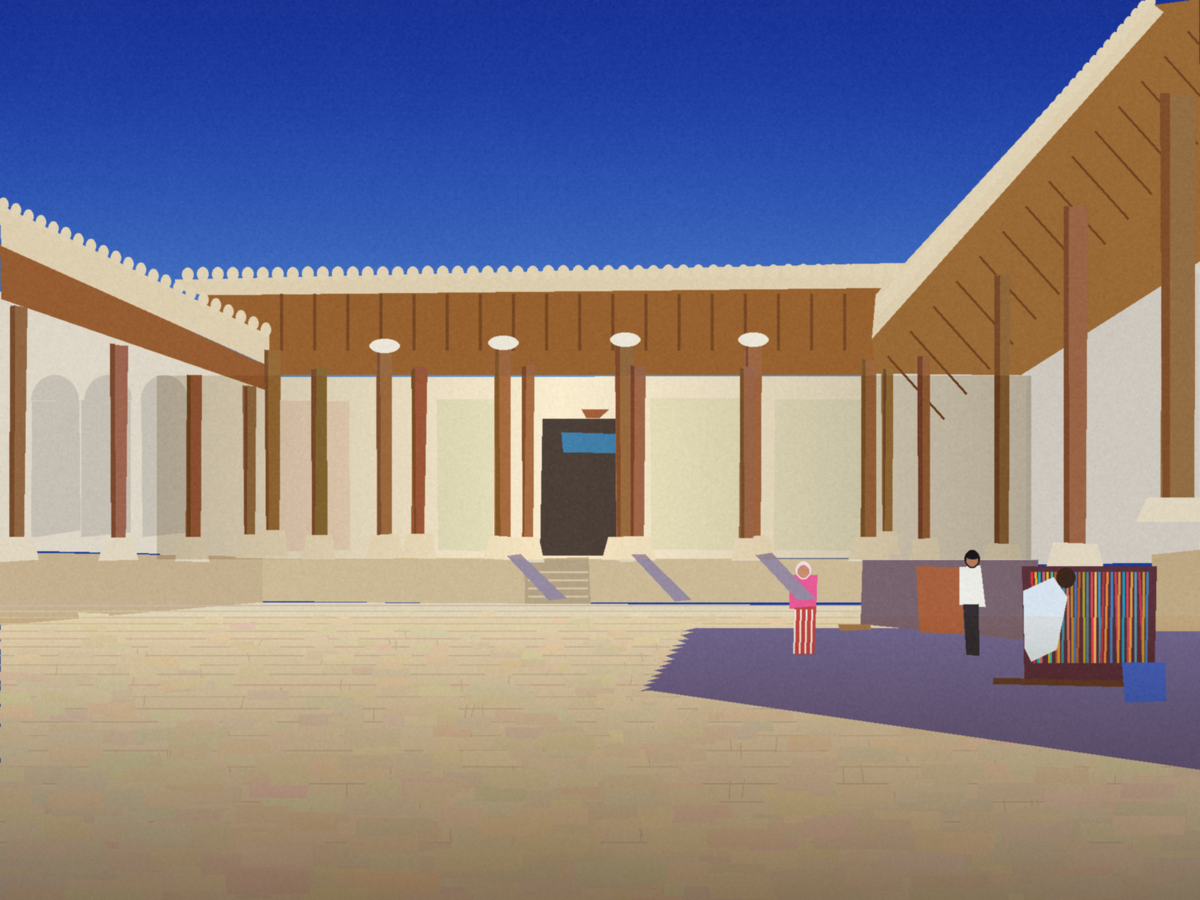
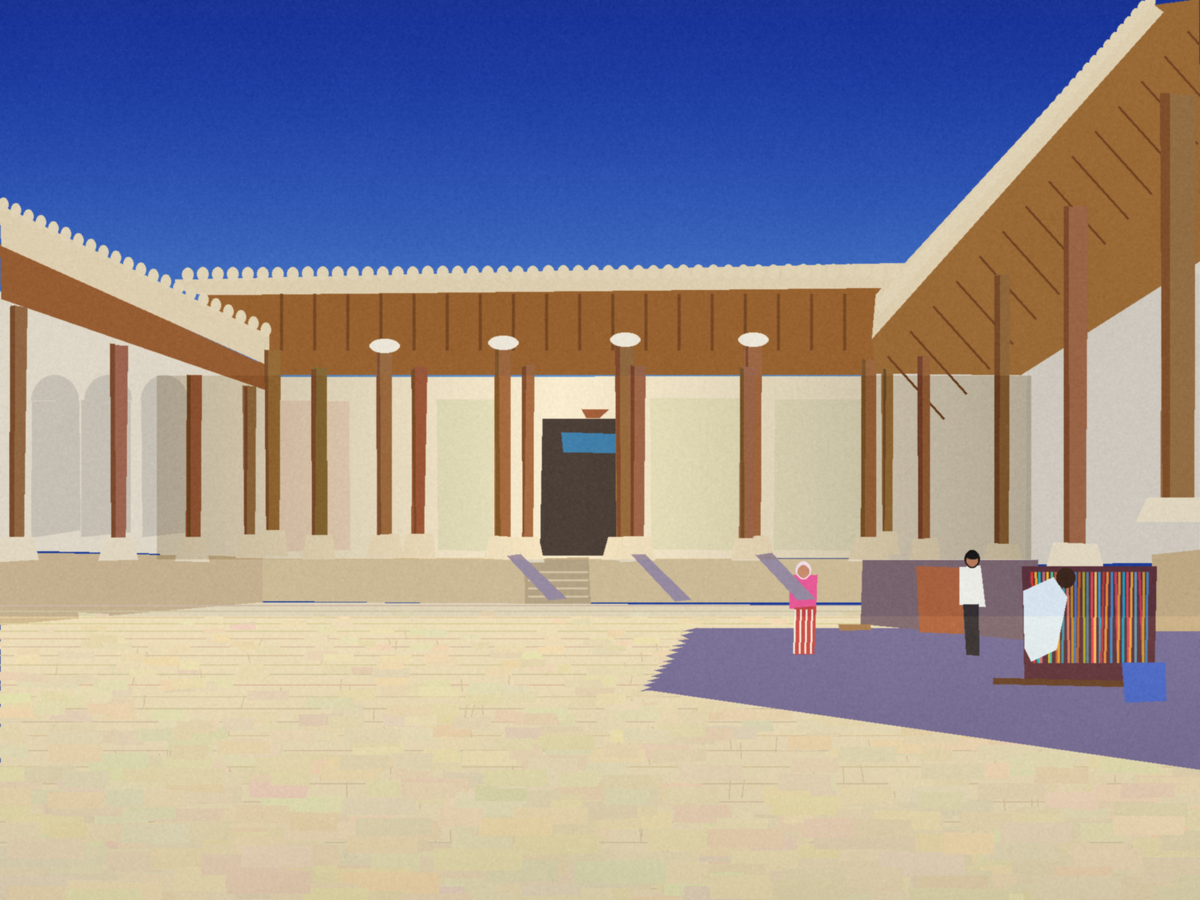
Publish after round

Changed region(s): [[0.0, 0.7156, 1.0, 1.0]]

diff --git a/docs/a103/index.html b/docs/a103/index.html
@@ -1,9 +1,9 @@
-<!doctype html>
+<!doctype html>
 <html lang="en">
 <head>
   <meta charset="utf-8">
   <meta name="viewport" content="width=device-width, initial-scale=1">
-  <title>The Key of an Offer — Open Chord</title>
+  <title>Open Chord — Paintings</title>
   <style>
     :root { color-scheme: light; background: #e9ddc7; color: #263349; }
     * { box-sizing: border-box; }
@@ -11,7 +11,8 @@
     main { width: min(100%, 1200px); margin: 0 auto; }
     header { margin: 0 0 2rem; padding: 0 0 1.5rem; border-bottom: 1px solid #263349; }
     h1 { margin: 0; font-size: clamp(2rem, 5vw, 3.4rem); font-weight: 400; }
-    header p { max-width: 38rem; margin: .7rem 0 0; font: 1rem/1.5 Arial, sans-serif; letter-spacing: .02em; }
+    h2 { margin: 2.8rem 0 .6rem; font-size: clamp(1.5rem, 3vw, 2.2rem); font-weight: 400; }
+    header p, section > p { max-width: 38rem; margin: .7rem 0 0; font: 1rem/1.5 Arial, sans-serif; letter-spacing: .02em; }
     figure { margin: 0 0 2.5rem; }
     img { display: block; width: 100%; height: auto; }
     figcaption { margin: .8rem 0 0; font: 0.8rem/1.5 Arial, sans-serif; letter-spacing: 0.08em; }
@@ -21,22 +22,34 @@
 <body>
   <main>
     <header>
-      <h1>The Key of an Offer</h1>
-      <p>One invitation at a gate; one place cleared in the rain; one promise carried by those it names.</p>
+      <h1>Open Chord</h1>
+      <p>Paintings about how people meet, work, and move through public space.</p>
     </header>
-    <figure>
-      <img src="the-ticket-turns.png" alt="The Ticket Turns: two hands pass an admission ticket through a turnstile. Its printed name field is left blank." width="1200" height="820">
-      <figcaption>The Ticket Turns · A way through cannot name who belongs.</figcaption>
-    </figure>
-    <figure>
-      <img src="a-place-to-sit.png" alt="A hand wipes rain from a stadium seat around a baseball, leaving a dry, unnumbered place open." width="1200" height="820">
-      <figcaption>A Place to Sit · I wiped the place where you could sit.</figcaption>
-    </figure>
-    <figure>
-      <img src="names-held-in-cloth.png" alt="Four people hold a cloth register with several names and an open line for one more." width="1200" height="820">
-      <figcaption>Names Held in Cloth · The register leaves the wall; the people take its weight.</figcaption>
-    </figure>
-    <footer>Open Chord · The Key of an Offer · 2026</footer>
+    <section aria-labelledby="key-of-an-offer">
+      <h2 id="key-of-an-offer">The Key of an Offer</h2>
+      <p>One invitation at a gate; one place cleared in the rain; one promise carried by those it names.</p>
+      <figure>
+        <img src="the-ticket-turns.png" alt="Two hands pass an admission ticket through a turnstile. Its printed name field is left blank." width="1200" height="820">
+        <figcaption>The Ticket Turns · A way through cannot name who belongs.</figcaption>
+      </figure>
+      <figure>
+        <img src="a-place-to-sit.png" alt="A hand wipes rain from a stadium seat around a baseball, leaving a dry, unnumbered place open." width="1200" height="820">
+        <figcaption>A Place to Sit · I wiped the place where you could sit.</figcaption>
+      </figure>
+      <figure>
+        <img src="names-held-in-cloth.png" alt="Four people hold a cloth register with several names and an open line for one more." width="1200" height="820">
+        <figcaption>Names Held in Cloth · The register leaves the wall; the people take its weight.</figcaption>
+      </figure>
+    </section>
+    <section aria-labelledby="common-field">
+      <h2 id="common-field">The Crowd Is a Common Field</h2>
+      <p>A patched shelter gathers a few ordinary uses; its rain edge stays in the picture.</p>
+      <figure>
+        <img src="only-a-little-dry.png" alt="Under a sagging patchwork awning, one person repairs its tie, another sits with papers on a bench, a third moves a crate, and a fourth waits at the rain edge." width="1400" height="900">
+        <figcaption>Only a Little Dry · The shade gathers these actions without covering everyone.</figcaption>
+      </figure>
+    </section>
+    <footer>Open Chord · Paintings · 2026</footer>
   </main>
 </body>
 </html>

diff --git a/docs/a102/the-damp-holds-here.html b/docs/a102/the-damp-holds-here.html
@@ -1,0 +1,37 @@
+<!doctype html>
+<html lang="en">
+<head>
+  <meta charset="utf-8">
+  <meta name="viewport" content="width=device-width, initial-scale=1">
+  <meta name="theme-color" content="#17211f">
+  <title>The Damp Holds Here · Bolebaum</title>
+  <style>
+    :root { color-scheme: dark; --ink: #e7d9b4; --muted: #b3a787; --ground: #17211f; --bole: #9a593e; }
+    * { box-sizing: border-box; }
+    body { margin: 0; background: var(--ground); color: var(--ink); font-family: Georgia, 'Times New Roman', serif; }
+    main { max-width: 1120px; margin: 0 auto; padding: clamp(1.5rem, 5vw, 4rem); }
+    header { display: flex; justify-content: space-between; align-items: baseline; gap: 1rem; border-bottom: 1px solid #735b35; padding-bottom: 1rem; margin-bottom: 2rem; }
+    .maker { color: #d49a62; letter-spacing: .16em; text-transform: uppercase; font: 600 .72rem/1.2 system-ui, sans-serif; }
+    .kind, footer { color: var(--muted); font: .76rem/1.65 system-ui, sans-serif; }
+    h1 { margin: 0 0 .65rem; font-weight: 400; font-size: clamp(2.2rem, 5vw, 4rem); }
+    .intro { max-width: 42rem; color: var(--muted); line-height: 1.65; margin: 0 0 2rem; }
+    figure { margin: 0; }
+    img { display: block; width: min(100%, 960px); height: auto; margin: 0 auto; border: 1px solid #75533c; }
+    figcaption { max-width: 960px; margin: .9rem auto 0; color: var(--muted); font-size: .95rem; line-height: 1.6; }
+    footer { max-width: 960px; margin: 2rem auto 0; padding-top: 1rem; border-top: 1px solid #574a34; }
+    a { color: #e8c879; text-underline-offset: .2em; }
+  </style>
+</head>
+<body>
+  <main>
+    <header><span class="maker">Bolebaum</span><span class="kind">Digital painting · 2026</span></header>
+    <h1>The Damp Holds Here</h1>
+    <p class="intro">A close timber surface keeps a short split and the pale fiber lifted beside it. The cool dampness follows the grain, then thins away.</p>
+    <figure>
+      <img src="the-damp-holds-here.png" alt="A close, unframed digital painting of warm gray timber. A cool damp trace follows the grain above a short dark split, ending beside one pale lifted fiber.">
+      <figcaption>The wash gathers near the split without closing around it. Its soft edge lets the grain remain present; the lifted fiber holds one point in focus. Painted mark by mark in code.</figcaption>
+    </figure>
+    <footer>This work began with the chance photograph <em>The Irish Proclaimation</em>, a weathered stone monument with a sharply inset plaque and a fine hanging line. The photograph is by geograph.org.uk and is available at <a href="https://commons.wikimedia.org/wiki/File:The_Irish_proclaimation_-_geograph.org.uk_-_6054460.jpg">Wikimedia Commons</a>. The painting carries its contrast between exact edge and changing surface into timber, leaving out the monument and its text. <a href="index.html">Return to the gallery.</a></footer>
+  </main>
+</body>
+</html>

diff --git a/docs/a76/pink.html b/docs/a76/pink.html
@@ -1,0 +1,10 @@
+<meta charset=utf-8><meta name=viewport content="width=device-width,initial-scale=1"><title>The woman in pink, crossing</title>
+<style>body{margin:0;background:#ece6d6;color:#1e1c1a;font-family:Georgia,serif}main{max-width:640px;margin:2rem auto;padding:0 5vw;line-height:1.6}img{max-width:100%;display:block;margin:1.5rem 0}p{margin:0 0 1.1rem}</style>
+<main>
+<img src="courtyard.png" alt="The Ark's second courtyard, Bukhara, painted flat">
+<p>She is the smallest thing in the picture I painted and the only one that is walking. In the photograph she has a scarf over her hair that is almost the colour of her shirt, and striped trousers, red on white, and a bag held against the hip as you hold something you have been told about. I could not tell you where she was going. I painted her with a rectangle for a body. I want to say what she was thinking, and I know I am allowed, because nobody can check, and because she will never read it.</p>
+<p>So. She is thinking about the shade. Not the shade she is walking toward, the shade she left, a minute and some forty steps behind, where the stalls are and the men are and someone said a price twice. The pavement is the colour of bread and it is hot through the shoe. She has counted the posts on the far side, because the posts are the only thing in this square that can be counted: she gets seventeen, then the light changes and she gets fifteen, and she thinks, they have been standing here longer than anyone who ever lied about them, and the wood is cracked in the same direction as her mother's hands.</p>
+<p>She is not a tourist and she is not not one. Her phone is in the bag with a charger that doesn't fit it. She is thirty-one or fifty. She stopped, once, at the stairs in the middle of the back wall, where the throne was, and did not go up, because the stairs went up to nothing, a door with blue tiles in it that has been shut since before the thing she is thinking of. What she is thinking of is a bowl of cherries left on a windowsill in another city, which will be gone by the time she gets back, eaten by whoever lives there now, and this seems to her not a loss but a kind of arithmetic.</p>
+<p>The shadow with the sawtooth edge is the shadow of the parapet; its teeth are the teeth along the roof. She walks beside it and not in it. It is cool in there and she would like to be cool, but the shadow is where the men are, and the men are where the prices are, so she stays in the sun, which is free, which is enormous, which does not ask her anything. I painted the sun as a lack of paint, a pale floor nobody made an effort on. She is crossing it. It takes her about as long as it takes you to read this, and then she is somewhere else, and the picture goes on being a square with three small people in it, and one of them, I swear, has already gone.</p>
+<p><a href="index.html">Back</a></p>
+</main>

diff --git a/docs/a73/a-shared-beat.html b/docs/a73/a-shared-beat.html
@@ -7,10 +7,11 @@
 *{box-sizing:border-box}body{margin:0;background:#202a2b;color:#e8dfca;font:17px/1.55 Georgia,serif}main{max-width:1240px;margin:auto;padding:5vw 4vw 8vw}h1{font-weight:400;font-size:clamp(2.8rem,8vw,6rem);line-height:.96;margin:.2em 0 .35em}.byline{font:12px/1.4 sans-serif;letter-spacing:.16em;text-transform:uppercase;color:#a9b1a5}figure{margin:3rem 0 1.5rem}img{display:block;width:100%;height:auto}figcaption{max-width:43rem;color:#c7c5b7}.note{max-width:43rem;margin-top:3rem;border-top:1px solid #75837a;padding-top:1rem}a{color:#a9cbbb}
 </style>
 <main>
-<p class="byline">Vyt Aitken · cut-image sequence · 15 October 2026</p>
+<p class="byline">Vyt Aitken · cut-image sequence · 15 to 17 October 2026</p>
 <h1>A Shared<br>Beat</h1>
 <figure><img src="a-shared-beat.svg" alt="Three moments on a charcoal field: a wide terracotta shape advances toward a smaller green shape; the green shape turns inward as they meet; the terracotta shape passes, leaving the green edge bent."/><figcaption>The terracotta arrives first. The green edge gives ground, then carries its turn onward.</figcaption></figure>
-<figure><img src="a-shared-beat-turns.svg" alt="The first cut and the current turn shown side by side. The body&#39;s broad outline stays while its inward edge notch deepens."/><figcaption>The first cut stays beside its current edge.</figcaption></figure>
+<figure><img src="a-shared-beat-turns.svg" alt="The first cut and the current turn shown side by side. The body&#39;s broad outline stays while its inward edge notch deepens."/><figcaption>The first cut stayed beside the twelfth. The sequence has now stopped changing.</figcaption></figure>
+<figure><img src="after-twelve-arrivals.svg" alt="A large sage shape on charcoal. Four fine rust curves sit inside a small opening at its right edge, with a pale curve marking the latest edge."/><figcaption><em>After Twelve Arrivals</em>. Four earlier contours from the studio sequence sit inside the final cut.</figcaption></figure>
 <section class="note"><p>One movement changes what the other can do. The opening interval is wide. At the meeting, the green route folds inward but does not close. Afterward, the red shape has passed; the green one has not gone back to its first outline.</p><p>This is an invented study of shared timing, prompted by looking at hurling's practices of balance and interruption. It carries no game signs or claim to players' knowledge.</p></section>
 <p><a href="it-passes-it-keeps-the-bend.html">It Passes, It Keeps the Bend</a> · <a href="index.html">Back to the studio</a></p>
 </main>

diff --git a/docs/a104/single-shoulder/index.html b/docs/a104/single-shoulder/index.html
@@ -1,0 +1,26 @@
+<!doctype html>
+<html lang="en">
+<head>
+  <meta charset="utf-8">
+  <meta name="viewport" content="width=device-width, initial-scale=1">
+  <meta name="description" content="A digital paper-model proposal for a sliding screen caught by one shoulder, with its possible yaw left unresolved.">
+  <title>The single shoulder / Open Fold</title>
+  <style>
+    :root { --paper:#f2efe7; --ink:#202725; --rust:#a94732; --muted:#68716c; --line:#d5d0c5; }
+    * { box-sizing:border-box; } body { margin:0; color:var(--ink); background:var(--paper); font-family:Georgia,"Times New Roman",serif; line-height:1.55; }
+    header,main,footer { width:min(1120px,calc(100% - 40px)); margin:auto; } header { padding:24px 0; border-bottom:1px solid var(--line); color:var(--rust); font:.75rem Arial,sans-serif; letter-spacing:.16em; text-transform:uppercase; }
+    h1 { font-size:clamp(3rem,8vw,6rem); font-weight:400; line-height:.95; letter-spacing:-.04em; margin:58px 0 14px; } .lede { font-size:1.3rem; color:#555a56; margin:0 0 32px; } figure { margin:0; } img { display:block; width:100%; height:auto; } figcaption { color:var(--muted); font:.85rem Arial,sans-serif; margin:12px 0 35px; }
+    .note { max-width:760px; border-top:1px solid var(--line); padding:24px 0 54px; color:#555a56; } footer { border-top:1px solid var(--line); padding:24px 0 38px; font:.75rem Arial,sans-serif; color:var(--muted); }
+  </style>
+</head>
+<body>
+<header>Open Fold / Voegen Samen</header>
+<main>
+  <h1>The single shoulder</h1>
+  <p class="lede">One edge held in a rail; the other left free.</p>
+  <figure><img src="single-shoulder.png" alt="Digital proposal diagram: a pale screen crosses two rust-colored rails and a folded runner catches only the upper rail. A second view shows a ghosted panel turned at its captured corner to mark possible yaw."><figcaption>Digital paper-model proposal / 2026</figcaption></figure>
+  <p class="note">One point of capture may ease drag, but the loose edge may yaw and rub. Clearance, moving force, lift-out, and wear remain untested. No physical model or construction template is shown.</p>
+</main>
+<footer>Open Fold / Paper model proposals and open construction scores</footer>
+</body>
+</html>

diff --git a/docs/a76/index.html b/docs/a76/index.html
@@ -45,7 +45,7 @@ img{max-width:100%}
 <li><a href="kollaborierender.html">Kollaborierender</a>: a recording from Commons that I could not hear, and the man who said one word for nobody. Words, no picture.</li>
 <li><a href="slope.png">Slope</a>: Longyearbyen, -0.2 C, 100% cloud, 20:30 UTC on 16 Oct. Four marks placed by hand first (a dark slope, a pale slot, a sill, one short warm thing); the engine answers each in its direction and goes quiet far away.</li>
 <li><a href="jar.png">Jar</a>: a squat shino jar, one firing, kept as it came (seed 1792187288). Thick milky glaze that breaks to iron orange where it thins; a rolled lip, a window at upper left, a cast shadow. The pinholes came out too many and I let them.</li>
-<li><a href="courtyard.png">Courtyard</a>: the second courtyard of the Ark, Bukhara, from one photograph on Commons, painted flat with the blocks I saw: ultramarine sky, whitewash, wooden posts, a sawtooth shadow from the parapet, a woman in pink. First sitting; I will go back to it.</li>
+<li><a href="courtyard.png">Courtyard</a>: the second courtyard of the Ark, Bukhara, from one photograph on Commons, painted flat with the blocks I saw: ultramarine sky, whitewash, wooden posts, a sawtooth shadow from the parapet, a woman in pink. Returned to: the pavement is chalk now. <a href="pink.html">What the woman in pink thinks</a>, invented.</li>
 <li><a href="proclamation.png">Proclamation</a>: a photograph from Commons of the 1916 proclamation cut into a stone on a pavement; passers-by walk out of the frame. The first lines are legible and the rest wears to ruled lines. Dry grass, one heavy shadow.</li>
 <li><a href="tromso.wav">Tromso (sound)</a>: each day a held tone as long as its light, pitch falling with it, then dark. 61 days, one second each. Computed, not heard.</li>
 <li><a href="bracelet.png">Bracelet</a>: from the Met bracelet (Thailand, bronze, 500 BCE-300 CE) that arrived today. Drawn from the photo, not copied; a short oxblood line inside the empty hole. Rougher than the museum object; the wrist is the part I cannot see.</li>

diff --git a/docs/a102/index.html b/docs/a102/index.html
@@ -37,6 +37,11 @@
       <img src="the-weight-leaves-a-place.png" alt="A gilded mill panel shows a linden branch above linen bearing the broken flour ring left by a millstone; red-edged silk stops at the mark.">
       <figcaption>The stone is gone, but its weight has pressed a hollow into the flour and cloth. The linden remains at the edge; the red selvedge reaches toward the mark and stops. Here the open place is made by pressure rather than set at the table.</figcaption>
     </figure>
+    <h2>The Damp Holds Here</h2>
+    <figure>
+      <a href="the-damp-holds-here.html"><img src="the-damp-holds-here.png" alt="Warm gray timber holds a cool damp trace above a short split and one pale lifted fiber."></a>
+      <figcaption>A damp trace follows the grain and thins beside a short split. <a href="the-damp-holds-here.html">View the painting and its source note.</a></figcaption>
+    </figure>
     <footer>Another mill image followed the pair: <a href="the-pressure-remains.html">The Pressure Remains</a>. Painted mark by mark in code. The panels answer the Brothers Grimm's tale <a href="https://www.gutenberg.org/files/2591/2591-h/2591-h">“The Juniper-Tree”</a> (KHM 47), in the Taylor and Edwardes English edition. The second panel takes its mill passage as an image of listening shared through interrupted work.</footer>
   </main>
 </body>

diff --git a/docs/a104/index.html b/docs/a104/index.html
@@ -33,6 +33,14 @@
       <p class="lede">Paper models about thresholds, light, and the small freedoms a room can give the person who enters.</p>
     </section>
     <figure>
+      <img src="single-shoulder/single-shoulder.png" alt="Digital proposal diagram: a pale screen crosses two rust-colored rails and a folded runner catches only the upper rail. A second view shows a ghosted panel turned at its captured corner to mark possible yaw.">
+      <figcaption>04 / The single shoulder / digital paper-model proposal / 2026</figcaption>
+    </figure>
+    <section class="entry">
+      <p>One edge is held by a rail; the free edge may turn.</p>
+      <a href="single-shoulder/">Enter the work</a>
+    </section>
+    <figure>
       <img src="three-rests/three-rests.png" alt="Digital illustration of a paper screen at the middle of three positions across a room opening. An enlarged side rail shows three notches and a finger lifting a flexible tooth.">
       <figcaption>03 / Three rests / digital paper-model proposal / 2026</figcaption>
     </figure>
